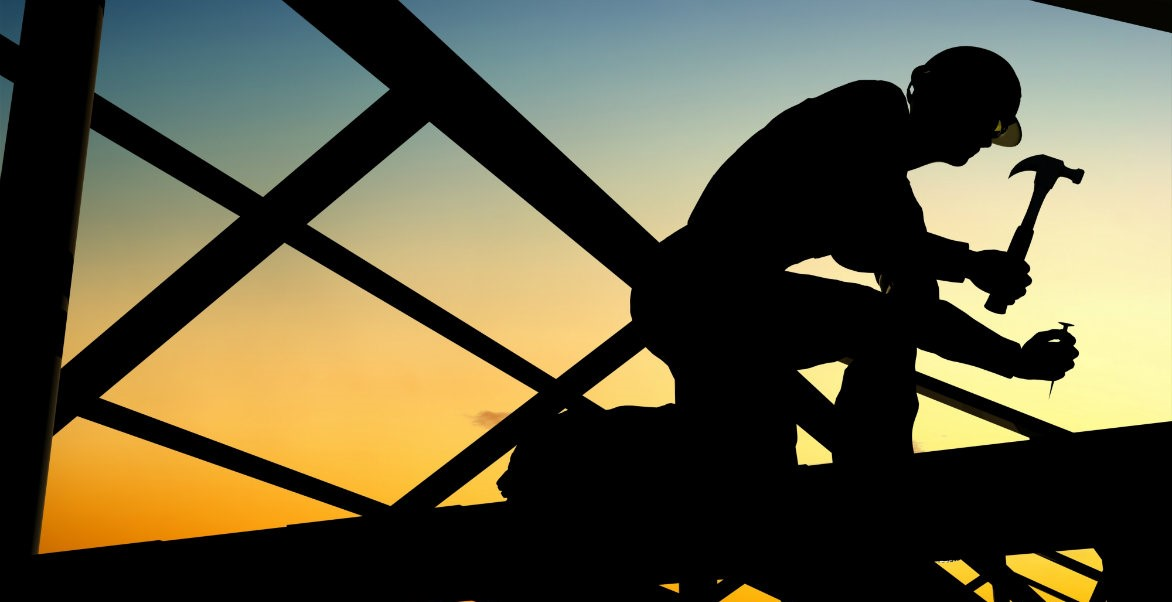
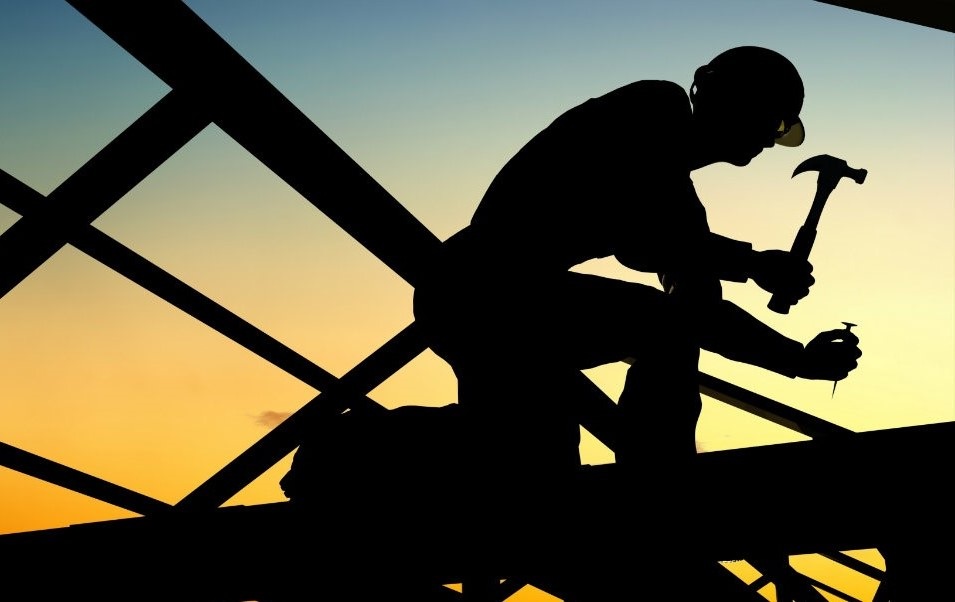
fix: responsive carrucel.

diff --git a/src/app/components/carrucel/carrucel.component.scss b/src/app/components/carrucel/carrucel.component.scss
@@ -34,9 +34,8 @@
             justify-content: center;
             min-width: 100%;
             height: 100%;
-            background-repeat: no-repeat;
             background-size: cover;
-            background-position: center;
+            background-position:center;
             transition: 1s all ease-in;
             
            

diff --git a/src/app/components/carrucel/carrucel.component.ts b/src/app/components/carrucel/carrucel.component.ts
@@ -10,7 +10,7 @@ export class CarrucelComponent implements OnInit {
 
   /* Custom Properties: Propiedades que vienen directo del Padre */
 
-  @Input() height = 600;
+  @Input() height = 500;
   @Input() isFullScreen = false;
   @Input() items: ICarrucelItem[] = [];
 

diff --git a/src/app/components/nav/nav.component.scss b/src/app/components/nav/nav.component.scss
@@ -8,7 +8,7 @@
     border-bottom: 1px solid black;
     position: sticky;
     top: 0;
-    z-index: 2;
+    z-index: 3;
     
 
     &-logo{
